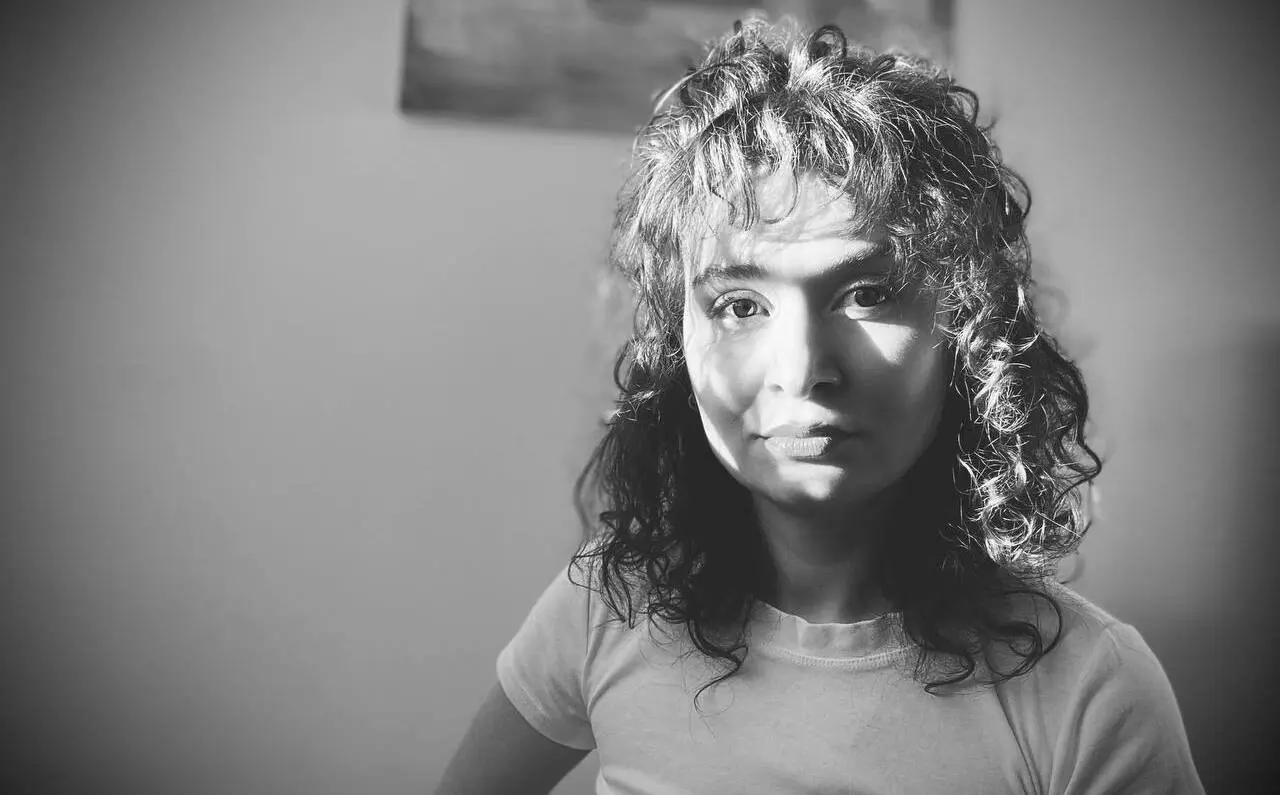
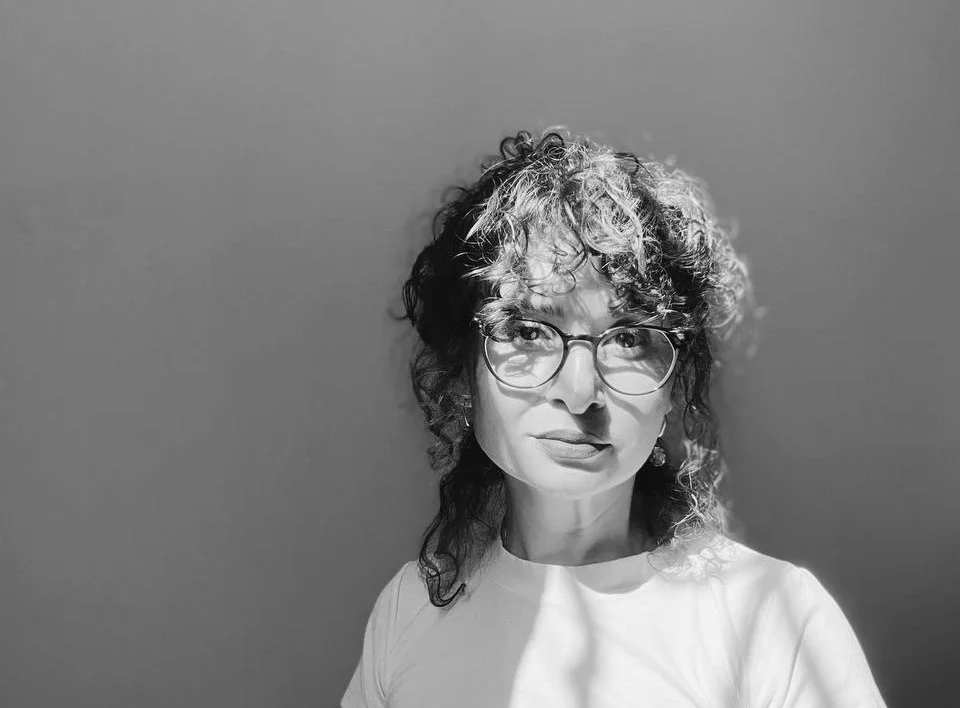
fix skills section, change intro's photo

diff --git a/src/components/Header/Header.css b/src/components/Header/Header.css
@@ -1,26 +1,33 @@
 .header {
-    position: relative;
-    z-index: 10;
-    display: flex;
-    justify-content: space-between;
-    align-items: center;
-    padding: 1.2rem 2rem;
-    height: 60px;
+    position: absolute;
+    top: 0;
+    left: 0;
+    z-index: 3;
     width: 100%;
-
-    background-color: rgba(0, 0, 0, 0.3);
-    /* лёгкая тень на фоне */
-    backdrop-filter: blur(4px);
-    /* размытие фона */
+    height: 70px;
+    display: grid;
+    grid-template-columns: auto 1fr auto;
+    align-items: center;
+    padding: 0 2rem;
+    background-color: rgba(0, 0, 0, 0.25);
+    backdrop-filter: blur(6px);
     border-bottom: 1px solid rgba(255, 255, 255, 0.1);
+}
+
+.header-logo {
+    width: 100px;
+    height: auto;
+    filter: invert(1);
 }
 
 .header-name {
     font-size: 1.8rem;
     font-weight: bold;
-    color: #ffffff;
+    color: white;
+    text-align: center;
+    justify-self: center;
+    font-family: 'Roboto Mono', monospace;
     text-shadow: 0 0 3px rgba(0, 0, 0, 0.3);
-    /* читаемость на фоне */
 }
 
 .menu-icon {
@@ -36,23 +43,34 @@
     filter: brightness(0.8) invert(1.2);
 }
 
-.burger-menu {
-    position: relative;
-}
-
 .burger-menu-content {
     position: absolute;
-    top: 55px;
+    top: 60px;
     right: 0;
-    width: 160px;
     background-color: rgba(255, 255, 255, 0.95);
-    border-radius: 8px;
+    border-radius: 10px;
     padding: 12px;
     box-shadow: 0 12px 24px rgba(0, 0, 0, 0.2);
     display: flex;
     flex-direction: column;
     align-items: center;
     animation: fadeIn 0.3s ease forwards;
+    border: 2px solid white;
+    font-family: 'Roboto Mono', monospace;
+}
+
+.burger-menu-content a {
+    color: black;
+    text-decoration: none;
+    font-size: 15px;
+    padding: 6px 10px;
+    margin: 4px 0;
+    border-radius: 6px;
+    transition: background-color 0.2s ease;
+}
+
+.burger-menu-content a:hover {
+    background-color: #efefef;
 }
 
 @keyframes fadeIn {
@@ -69,15 +87,13 @@
 
 @media (max-width: 768px) {
     .header {
-        flex-direction: column;
-        align-items: flex-start;
-        padding: 1rem;
+        grid-template-columns: 1fr auto;
         height: auto;
+        padding: 1rem;
     }
 
     .header-name {
         font-size: 1.5rem;
-        margin-bottom: 10px;
     }
 
     .menu-icon {
@@ -87,8 +103,7 @@
 
     .burger-menu-content {
         top: 50px;
-        right: 10px;
-        width: 130px;
-        font-size: 14px;
+        right: 12px;
+        width: 140px;
     }
 }

diff --git a/src/components/Header/Header.tsx b/src/components/Header/Header.tsx
@@ -1,25 +1,41 @@
-import React, { useState } from 'react';
-import NavLink from '@components/NavLinks/NavLinks.tsx';
-import menuImage from '@assets/menu.png';
+import React, { useState, useEffect, useRef } from 'react';
+import NavLink from '@components/NavLinks/NavLinks';
+import logo from '@assets/logo.jpg';
+import menuIcon from '@assets/menu.png';
 import './Header.css';
 
 const Header = () => {
   const [isMenuOpen, setIsMenuOpen] = useState(false);
+  const menuRef = useRef<HTMLDivElement>(null);
 
   const toggleMenu = () => setIsMenuOpen(prev => !prev);
 
+  useEffect(() => {
+    const handleClickOutside = (e: MouseEvent) => {
+      if (menuRef.current && !menuRef.current.contains(e.target as Node)) {
+        setIsMenuOpen(false);
+      }
+    };
+
+    if (isMenuOpen) {
+      document.addEventListener('click', handleClickOutside);
+    }
+    return () => document.removeEventListener('click', handleClickOutside);
+  }, [isMenuOpen]);
+
   return (
     <header className="header">
+      <img src={logo} alt="Logo" className="header-logo" />
       <h1 className="header-name">Nino</h1>
       <div className="burger-menu">
         <img
-          src={menuImage}
-          alt="Menu icon"
+          src={menuIcon}
+          alt="Menu"
           className="menu-icon"
           onClick={toggleMenu}
         />
         {isMenuOpen && (
-          <div className="burger-menu-content">
+          <div className="burger-menu-content" ref={menuRef}>
             <NavLink />
           </div>
         )}

diff --git a/src/components/TechGrid/TechGrid.css b/src/components/TechGrid/TechGrid.css
@@ -1,10 +1,11 @@
 .tech-wrapper {
     display: flex;
-    justify-content: center;
-    gap: 80px;
+    justify-content: space-between;
+    gap: 48px;
     flex-wrap: wrap;
-    max-width: 1200px;
+    max-width: 1000px;
     width: 100%;
+    padding: 0 80px;
     margin: 0 auto;
 }
 
@@ -92,7 +93,7 @@
     }
 
     .tech-title {
-        font-size: 18px;
+        font-size: 20px;
     }
 
     .tech-grid {
@@ -112,7 +113,12 @@
     }
 
     .tech-label {
-        font-size: 13px;
-        bottom: -14px;
+        font-size: 15px;
+        bottom: -16px;
+    }
+
+    .skills-heading {
+        font-size: 28px;
+        /* раньше 26px */
     }
 }

diff --git a/src/components/Intro/Intro.css b/src/components/Intro/Intro.css
@@ -6,7 +6,6 @@
     align-items: center;
     padding: 80px 0 40px;
     background-image: url('@assets/myphoto.webp');
-    /* путь заменить */
     background-size: cover;
     background-position: center;
     background-repeat: no-repeat;
@@ -28,7 +27,8 @@
     z-index: 2;
     display: flex;
     flex-direction: column;
-    align-items: flex-start;
+    align-items: center;
+    text-align: center;
     width: 70%;
     max-width: 600px;
     gap: 15px;

diff --git a/src/components/Skills/Skills.css b/src/components/Skills/Skills.css
@@ -1,6 +1,6 @@
 .skills-container {
     width: 100%;
-    padding: 60px 40px;
+    padding: 30px 20px;
     background-image: url('/src/assets/backgrounds/back.webp');
     background-size: cover;
     background-position: center;
@@ -8,6 +8,7 @@
     display: flex;
     flex-direction: column;
     align-items: center;
+    text-align: center;
     gap: 40px;
 }
 
